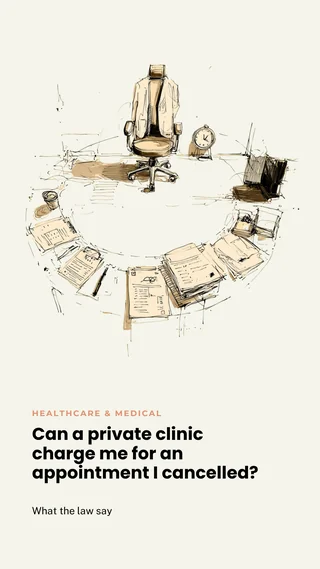
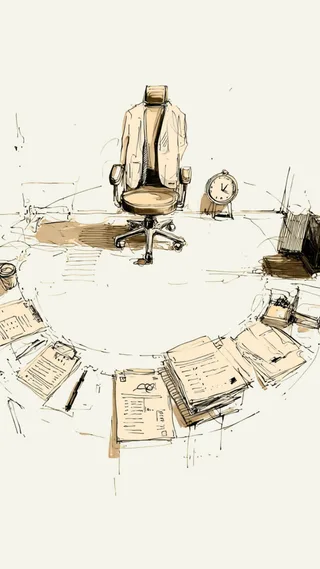
Healthcare & Medical questions: title-free card images, hero images, real card text
Same treatment as the Flights & Travel, Employment, Crypto & Fintech,
Food & Hospitality, Training & Education, and Finance & Banking batches,
now for Healthcare & Medical (5 articles), including the pillar page.

1. Replace the 5 small card images in images/questions/healthcare-medical/
   with new title-free versions — same filenames, same 1200x2133 dims —
   and regenerate the .webp/-320w.webp/-410w.webp variants from them.

2. Add a dedicated 1600x900 hero image to each of the 5 Healthcare &
   Medical question articles via the established .q-hero-image class
   (visible at all breakpoints, unlike the sitewide .hero-image which is
   display:none on mobile).

3. Fix /questions/ index cards (both "all" and "healthcare-medical" tab
   panels): title and category are now real HTML text
   (<h3 class="q-card-title">, <span class="q-card-category">) below
   each image, reusing the .q-card component from the earlier batches —
   no new CSS needed.

4. Fix the Healthcare & Medical pillar page (healthcare-medical.html):
   applied the same .q-card/.q-card-category/.q-card-title structure
   (wrapping the existing <picture>/webp markup) so title/category render
   as real text here too.

diff --git a/questions.html b/questions.html
@@ -531,20 +531,40 @@
           <span class="q-card-category">Finance &amp; Banking</span>
           <h3 class="q-card-title">Who pays if someone uses my card without permission?</h3>
         </a>
-        <a class="q-img-card" href="/questions/healthcare-medical/can-clinic-charge-me-appointment-i-cancelled">
-          <img src="/images/questions/healthcare-medical/can-clinic-charge-me-appointment-i-cancelled.png" alt="Can a private clinic charge me for an appointment I cancelled?" loading="lazy" width="1200" height="2133">
+        <a class="q-card" href="/questions/healthcare-medical/can-clinic-charge-me-appointment-i-cancelled">
+          <div class="q-img-card">
+            <img src="/images/questions/healthcare-medical/can-clinic-charge-me-appointment-i-cancelled.png" alt="Can a private clinic charge me for an appointment I cancelled?" loading="lazy" width="1200" height="2133">
+          </div>
+          <span class="q-card-category">Healthcare &amp; Medical</span>
+          <h3 class="q-card-title">Can a private clinic charge me for an appointment I cancelled?</h3>
         </a>
-        <a class="q-img-card" href="/questions/healthcare-medical/can-clinic-refuse-treatment-cannot-pay-immediately">
-          <img src="/images/questions/healthcare-medical/can-clinic-refuse-treatment-cannot-pay-immediately.png" alt="Can a clinic refuse treatment because I cannot pay immediately?" loading="lazy" width="1200" height="2133">
+        <a class="q-card" href="/questions/healthcare-medical/can-clinic-refuse-treatment-cannot-pay-immediately">
+          <div class="q-img-card">
+            <img src="/images/questions/healthcare-medical/can-clinic-refuse-treatment-cannot-pay-immediately.png" alt="Can a clinic refuse treatment because I cannot pay immediately?" loading="lazy" width="1200" height="2133">
+          </div>
+          <span class="q-card-category">Healthcare &amp; Medical</span>
+          <h3 class="q-card-title">Can a clinic refuse treatment because I cannot pay immediately?</h3>
         </a>
-        <a class="q-img-card" href="/questions/healthcare-medical/can-doctor-refuse-give-me-medical-records">
-          <img src="/images/questions/healthcare-medical/can-doctor-refuse-give-me-medical-records.png" alt="Can a doctor refuse to give me my medical records?" loading="lazy" width="1200" height="2133">
+        <a class="q-card" href="/questions/healthcare-medical/can-doctor-refuse-give-me-medical-records">
+          <div class="q-img-card">
+            <img src="/images/questions/healthcare-medical/can-doctor-refuse-give-me-medical-records.png" alt="Can a doctor refuse to give me my medical records?" loading="lazy" width="1200" height="2133">
+          </div>
+          <span class="q-card-category">Healthcare &amp; Medical</span>
+          <h3 class="q-card-title">Can a doctor refuse to give me my medical records?</h3>
         </a>
-        <a class="q-img-card" href="/questions/healthcare-medical/can-doctor-share-medical-information-employer">
-          <img src="/images/questions/healthcare-medical/can-doctor-share-medical-information-employer.png" alt="Can a doctor share my medical information with my employer?" loading="lazy" width="1200" height="2133">
+        <a class="q-card" href="/questions/healthcare-medical/can-doctor-share-medical-information-employer">
+          <div class="q-img-card">
+            <img src="/images/questions/healthcare-medical/can-doctor-share-medical-information-employer.png" alt="Can a doctor share my medical information with my employer?" loading="lazy" width="1200" height="2133">
+          </div>
+          <span class="q-card-category">Healthcare &amp; Medical</span>
+          <h3 class="q-card-title">Can a doctor share my medical information with my employer?</h3>
         </a>
-        <a class="q-img-card" href="/questions/healthcare-medical/can-hospital-charge-me-not-told-beforehand">
-          <img src="/images/questions/healthcare-medical/can-hospital-charge-me-not-told-beforehand.png" alt="Can a hospital charge me for something I was not told about beforehand?" loading="lazy" width="1200" height="2133">
+        <a class="q-card" href="/questions/healthcare-medical/can-hospital-charge-me-not-told-beforehand">
+          <div class="q-img-card">
+            <img src="/images/questions/healthcare-medical/can-hospital-charge-me-not-told-beforehand.png" alt="Can a hospital charge me for something I was not told about beforehand?" loading="lazy" width="1200" height="2133">
+          </div>
+          <span class="q-card-category">Healthcare &amp; Medical</span>
+          <h3 class="q-card-title">Can a hospital charge me for something I was not told about beforehand?</h3>
         </a>
         <a class="q-img-card" href="/questions/housing-rentals/can-my-landlord-enter-my-home-without-telling-me">
           <img src="/images/questions/housing-rentals/can-my-landlord-enter-my-home-without-telling-me.png" alt="Can my landlord enter my home without telling me?" loading="lazy" width="1200" height="2133">
@@ -821,20 +841,40 @@
 
     <div class="qh-tool-panel" data-toolpanel="healthcare-medical">
       <div class="q-card-grid">
-        <a class="q-img-card" href="/questions/healthcare-medical/can-clinic-charge-me-appointment-i-cancelled">
-          <img src="/images/questions/healthcare-medical/can-clinic-charge-me-appointment-i-cancelled.png" alt="Can a private clinic charge me for an appointment I cancelled?" loading="lazy" width="1200" height="2133">
+        <a class="q-card" href="/questions/healthcare-medical/can-clinic-charge-me-appointment-i-cancelled">
+          <div class="q-img-card">
+            <img src="/images/questions/healthcare-medical/can-clinic-charge-me-appointment-i-cancelled.png" alt="Can a private clinic charge me for an appointment I cancelled?" loading="lazy" width="1200" height="2133">
+          </div>
+          <span class="q-card-category">Healthcare &amp; Medical</span>
+          <h3 class="q-card-title">Can a private clinic charge me for an appointment I cancelled?</h3>
         </a>
-        <a class="q-img-card" href="/questions/healthcare-medical/can-clinic-refuse-treatment-cannot-pay-immediately">
-          <img src="/images/questions/healthcare-medical/can-clinic-refuse-treatment-cannot-pay-immediately.png" alt="Can a clinic refuse treatment because I cannot pay immediately?" loading="lazy" width="1200" height="2133">
+        <a class="q-card" href="/questions/healthcare-medical/can-clinic-refuse-treatment-cannot-pay-immediately">
+          <div class="q-img-card">
+            <img src="/images/questions/healthcare-medical/can-clinic-refuse-treatment-cannot-pay-immediately.png" alt="Can a clinic refuse treatment because I cannot pay immediately?" loading="lazy" width="1200" height="2133">
+          </div>
+          <span class="q-card-category">Healthcare &amp; Medical</span>
+          <h3 class="q-card-title">Can a clinic refuse treatment because I cannot pay immediately?</h3>
         </a>
-        <a class="q-img-card" href="/questions/healthcare-medical/can-doctor-refuse-give-me-medical-records">
-          <img src="/images/questions/healthcare-medical/can-doctor-refuse-give-me-medical-records.png" alt="Can a doctor refuse to give me my medical records?" loading="lazy" width="1200" height="2133">
+        <a class="q-card" href="/questions/healthcare-medical/can-doctor-refuse-give-me-medical-records">
+          <div class="q-img-card">
+            <img src="/images/questions/healthcare-medical/can-doctor-refuse-give-me-medical-records.png" alt="Can a doctor refuse to give me my medical records?" loading="lazy" width="1200" height="2133">
+          </div>
+          <span class="q-card-category">Healthcare &amp; Medical</span>
+          <h3 class="q-card-title">Can a doctor refuse to give me my medical records?</h3>
         </a>
-        <a class="q-img-card" href="/questions/healthcare-medical/can-doctor-share-medical-information-employer">
-          <img src="/images/questions/healthcare-medical/can-doctor-share-medical-information-employer.png" alt="Can a doctor share my medical information with my employer?" loading="lazy" width="1200" height="2133">
+        <a class="q-card" href="/questions/healthcare-medical/can-doctor-share-medical-information-employer">
+          <div class="q-img-card">
+            <img src="/images/questions/healthcare-medical/can-doctor-share-medical-information-employer.png" alt="Can a doctor share my medical information with my employer?" loading="lazy" width="1200" height="2133">
+          </div>
+          <span class="q-card-category">Healthcare &amp; Medical</span>
+          <h3 class="q-card-title">Can a doctor share my medical information with my employer?</h3>
         </a>
-        <a class="q-img-card" href="/questions/healthcare-medical/can-hospital-charge-me-not-told-beforehand">
-          <img src="/images/questions/healthcare-medical/can-hospital-charge-me-not-told-beforehand.png" alt="Can a hospital charge me for something I was not told about beforehand?" loading="lazy" width="1200" height="2133">
+        <a class="q-card" href="/questions/healthcare-medical/can-hospital-charge-me-not-told-beforehand">
+          <div class="q-img-card">
+            <img src="/images/questions/healthcare-medical/can-hospital-charge-me-not-told-beforehand.png" alt="Can a hospital charge me for something I was not told about beforehand?" loading="lazy" width="1200" height="2133">
+          </div>
+          <span class="q-card-category">Healthcare &amp; Medical</span>
+          <h3 class="q-card-title">Can a hospital charge me for something I was not told about beforehand?</h3>
         </a>
       </div>
     </div>

diff --git a/healthcare-medical.html b/healthcare-medical.html
@@ -532,28 +532,49 @@
        zero DOM nodes for them. Not a "Coming soon" message — nothing at all. -->
   <div id="chFutureSections"></div>
 
-  <!-- QUESTIONS — image-only cards, same .q-card-grid/.q-img-card component as
-       questions.html and the other pillar pages. Static (not JS-rendered like
-       Calculators/Cases/Investigations above) since this section, unlike those,
+  <!-- QUESTIONS — image + category + title cards, same .q-card-grid/.q-card
+       component as questions.html and the other pillar pages (title/category
+       are real HTML text, never baked into the image). Static (not JS-rendered
+       like Calculators/Cases/Investigations above) since this section, unlike those,
        isn't meant to silently disappear if empty. -->
   <section aria-labelledby="ch-questions-h2" style="margin-top: 56px;">
     <h2 id="ch-questions-h2" class="cl-hub-cat">Questions</h2>
     <p class="cl-hub-cat-sub">Real questions about medical bills, records access and provider disputes — answered with the exact US and UK law that applies. <a href="/questions">See all Questions →</a></p>
     <div class="q-card-grid">
-      <a class="q-img-card" href="/questions/healthcare-medical/can-clinic-charge-me-appointment-i-cancelled">
-        <picture><source srcset="/images/questions/healthcare-medical/can-clinic-charge-me-appointment-i-cancelled-320w.webp 320w, /images/questions/healthcare-medical/can-clinic-charge-me-appointment-i-cancelled-410w.webp 410w, /images/questions/healthcare-medical/can-clinic-charge-me-appointment-i-cancelled.webp 540w" sizes="(min-width: 960px) 265px, (min-width: 640px) 205px, 160px" type="image/webp"><img src="/images/questions/healthcare-medical/can-clinic-charge-me-appointment-i-cancelled.png" alt="Can a private clinic charge me for an appointment I cancelled?" loading="lazy" width="1200" height="2133"></picture>
+      <a class="q-card" href="/questions/healthcare-medical/can-clinic-charge-me-appointment-i-cancelled">
+        <div class="q-img-card">
+          <picture><source srcset="/images/questions/healthcare-medical/can-clinic-charge-me-appointment-i-cancelled-320w.webp 320w, /images/questions/healthcare-medical/can-clinic-charge-me-appointment-i-cancelled-410w.webp 410w, /images/questions/healthcare-medical/can-clinic-charge-me-appointment-i-cancelled.webp 540w" sizes="(min-width: 960px) 265px, (min-width: 640px) 205px, 160px" type="image/webp"><img src="/images/questions/healthcare-medical/can-clinic-charge-me-appointment-i-cancelled.png" alt="Can a private clinic charge me for an appointment I cancelled?" loading="lazy" width="1200" height="2133"></picture>
+        </div>
+        <span class="q-card-category">Healthcare &amp; Medical</span>
+        <h3 class="q-card-title">Can a private clinic charge me for an appointment I cancelled?</h3>
       </a>
-      <a class="q-img-card" href="/questions/healthcare-medical/can-clinic-refuse-treatment-cannot-pay-immediately">
-        <picture><source srcset="/images/questions/healthcare-medical/can-clinic-refuse-treatment-cannot-pay-immediately-320w.webp 320w, /images/questions/healthcare-medical/can-clinic-refuse-treatment-cannot-pay-immediately-410w.webp 410w, /images/questions/healthcare-medical/can-clinic-refuse-treatment-cannot-pay-immediately.webp 540w" sizes="(min-width: 960px) 265px, (min-width: 640px) 205px, 160px" type="image/webp"><img src="/images/questions/healthcare-medical/can-clinic-refuse-treatment-cannot-pay-immediately.png" alt="Can a clinic refuse treatment because I cannot pay immediately?" loading="lazy" width="1200" height="2133"></picture>
+      <a class="q-card" href="/questions/healthcare-medical/can-clinic-refuse-treatment-cannot-pay-immediately">
+        <div class="q-img-card">
+          <picture><source srcset="/images/questions/healthcare-medical/can-clinic-refuse-treatment-cannot-pay-immediately-320w.webp 320w, /images/questions/healthcare-medical/can-clinic-refuse-treatment-cannot-pay-immediately-410w.webp 410w, /images/questions/healthcare-medical/can-clinic-refuse-treatment-cannot-pay-immediately.webp 540w" sizes="(min-width: 960px) 265px, (min-width: 640px) 205px, 160px" type="image/webp"><img src="/images/questions/healthcare-medical/can-clinic-refuse-treatment-cannot-pay-immediately.png" alt="Can a clinic refuse treatment because I cannot pay immediately?" loading="lazy" width="1200" height="2133"></picture>
+        </div>
+        <span class="q-card-category">Healthcare &amp; Medical</span>
+        <h3 class="q-card-title">Can a clinic refuse treatment because I cannot pay immediately?</h3>
       </a>
-      <a class="q-img-card" href="/questions/healthcare-medical/can-doctor-refuse-give-me-medical-records">
-        <picture><source srcset="/images/questions/healthcare-medical/can-doctor-refuse-give-me-medical-records-320w.webp 320w, /images/questions/healthcare-medical/can-doctor-refuse-give-me-medical-records-410w.webp 410w, /images/questions/healthcare-medical/can-doctor-refuse-give-me-medical-records.webp 540w" sizes="(min-width: 960px) 265px, (min-width: 640px) 205px, 160px" type="image/webp"><img src="/images/questions/healthcare-medical/can-doctor-refuse-give-me-medical-records.png" alt="Can a doctor refuse to give me my medical records?" loading="lazy" width="1200" height="2133"></picture>
+      <a class="q-card" href="/questions/healthcare-medical/can-doctor-refuse-give-me-medical-records">
+        <div class="q-img-card">
+          <picture><source srcset="/images/questions/healthcare-medical/can-doctor-refuse-give-me-medical-records-320w.webp 320w, /images/questions/healthcare-medical/can-doctor-refuse-give-me-medical-records-410w.webp 410w, /images/questions/healthcare-medical/can-doctor-refuse-give-me-medical-records.webp 540w" sizes="(min-width: 960px) 265px, (min-width: 640px) 205px, 160px" type="image/webp"><img src="/images/questions/healthcare-medical/can-doctor-refuse-give-me-medical-records.png" alt="Can a doctor refuse to give me my medical records?" loading="lazy" width="1200" height="2133"></picture>
+        </div>
+        <span class="q-card-category">Healthcare &amp; Medical</span>
+        <h3 class="q-card-title">Can a doctor refuse to give me my medical records?</h3>
       </a>
-      <a class="q-img-card" href="/questions/healthcare-medical/can-doctor-share-medical-information-employer">
-        <picture><source srcset="/images/questions/healthcare-medical/can-doctor-share-medical-information-employer-320w.webp 320w, /images/questions/healthcare-medical/can-doctor-share-medical-information-employer-410w.webp 410w, /images/questions/healthcare-medical/can-doctor-share-medical-information-employer.webp 540w" sizes="(min-width: 960px) 265px, (min-width: 640px) 205px, 160px" type="image/webp"><img src="/images/questions/healthcare-medical/can-doctor-share-medical-information-employer.png" alt="Can a doctor share my medical information with my employer?" loading="lazy" width="1200" height="2133"></picture>
+      <a class="q-card" href="/questions/healthcare-medical/can-doctor-share-medical-information-employer">
+        <div class="q-img-card">
+          <picture><source srcset="/images/questions/healthcare-medical/can-doctor-share-medical-information-employer-320w.webp 320w, /images/questions/healthcare-medical/can-doctor-share-medical-information-employer-410w.webp 410w, /images/questions/healthcare-medical/can-doctor-share-medical-information-employer.webp 540w" sizes="(min-width: 960px) 265px, (min-width: 640px) 205px, 160px" type="image/webp"><img src="/images/questions/healthcare-medical/can-doctor-share-medical-information-employer.png" alt="Can a doctor share my medical information with my employer?" loading="lazy" width="1200" height="2133"></picture>
+        </div>
+        <span class="q-card-category">Healthcare &amp; Medical</span>
+        <h3 class="q-card-title">Can a doctor share my medical information with my employer?</h3>
       </a>
-      <a class="q-img-card" href="/questions/healthcare-medical/can-hospital-charge-me-not-told-beforehand">
-        <picture><source srcset="/images/questions/healthcare-medical/can-hospital-charge-me-not-told-beforehand-320w.webp 320w, /images/questions/healthcare-medical/can-hospital-charge-me-not-told-beforehand-410w.webp 410w, /images/questions/healthcare-medical/can-hospital-charge-me-not-told-beforehand.webp 540w" sizes="(min-width: 960px) 265px, (min-width: 640px) 205px, 160px" type="image/webp"><img src="/images/questions/healthcare-medical/can-hospital-charge-me-not-told-beforehand.png" alt="Can a hospital charge me for something I was not told about beforehand?" loading="lazy" width="1200" height="2133"></picture>
+      <a class="q-card" href="/questions/healthcare-medical/can-hospital-charge-me-not-told-beforehand">
+        <div class="q-img-card">
+          <picture><source srcset="/images/questions/healthcare-medical/can-hospital-charge-me-not-told-beforehand-320w.webp 320w, /images/questions/healthcare-medical/can-hospital-charge-me-not-told-beforehand-410w.webp 410w, /images/questions/healthcare-medical/can-hospital-charge-me-not-told-beforehand.webp 540w" sizes="(min-width: 960px) 265px, (min-width: 640px) 205px, 160px" type="image/webp"><img src="/images/questions/healthcare-medical/can-hospital-charge-me-not-told-beforehand.png" alt="Can a hospital charge me for something I was not told about beforehand?" loading="lazy" width="1200" height="2133"></picture>
+        </div>
+        <span class="q-card-category">Healthcare &amp; Medical</span>
+        <h3 class="q-card-title">Can a hospital charge me for something I was not told about beforehand?</h3>
       </a>
     </div>
   </section>

diff --git a/questions/healthcare-medical/can-hospital-charge-me-not-told-beforehand.html b/questions/healthcare-medical/can-hospital-charge-me-not-told-beforehand.html
@@ -117,6 +117,8 @@
   .wrap { max-width: 720px; margin: 0 auto; padding: 0 24px; }
   .q-header { padding: 56px 0 28px; }
   .q-category { display: inline-block; font-family: var(--font-sans); font-size: 13px; font-weight: 700; letter-spacing: 1.2px; text-transform: uppercase; color: var(--accent-terra); margin-bottom: 18px; }
+  /* Visible at ALL breakpoints, unlike the sitewide .hero-image class (display:none on mobile). */
+  .q-hero-image { display: block; width: 100%; max-width: 100%; height: auto; border-radius: 12px; margin: 0 0 24px; }
   .q-header h1 { font-family: var(--font-serif); font-size: 36px; font-weight: 800; line-height: 1.25; margin-bottom: 16px; }
   .q-dek { font-size: 18px; color: var(--text-secondary); max-width: 620px; }
   .q-meta { display: flex; gap: 18px; margin-top: 20px; font-size: 13px; color: var(--text-secondary); }
@@ -342,6 +344,7 @@
 
   <header class="q-header">
     <span class="q-category">Healthcare &amp; Medical · US &amp; UK</span>
+    <img class="q-hero-image" src="/images/questions/healthcare-medical/can-hospital-charge-me-not-told-beforehand-hero.png" width="1600" height="900" alt="Can a hospital charge me for something I was not told about beforehand?" loading="eager" fetchpriority="high">
     <h1>Can a hospital charge me for something I was not told about beforehand?</h1>
     <p class="q-dek">Surprise medical bills used to be treated as an unavoidable part of getting care. Recent law in both countries makes that a lot less true.</p>
     <div class="q-meta">

diff --git a/questions/healthcare-medical/can-clinic-refuse-treatment-cannot-pay-immediately.html b/questions/healthcare-medical/can-clinic-refuse-treatment-cannot-pay-immediately.html
@@ -117,6 +117,8 @@
   .wrap { max-width: 720px; margin: 0 auto; padding: 0 24px; }
   .q-header { padding: 56px 0 28px; }
   .q-category { display: inline-block; font-family: var(--font-sans); font-size: 13px; font-weight: 700; letter-spacing: 1.2px; text-transform: uppercase; color: var(--accent-terra); margin-bottom: 18px; }
+  /* Visible at ALL breakpoints, unlike the sitewide .hero-image class (display:none on mobile). */
+  .q-hero-image { display: block; width: 100%; max-width: 100%; height: auto; border-radius: 12px; margin: 0 0 24px; }
   .q-header h1 { font-family: var(--font-serif); font-size: 36px; font-weight: 800; line-height: 1.25; margin-bottom: 16px; }
   .q-dek { font-size: 18px; color: var(--text-secondary); max-width: 620px; }
   .q-meta { display: flex; gap: 18px; margin-top: 20px; font-size: 13px; color: var(--text-secondary); }
@@ -342,6 +344,7 @@
 
   <header class="q-header">
     <span class="q-category">Healthcare &amp; Medical · US &amp; UK</span>
+    <img class="q-hero-image" src="/images/questions/healthcare-medical/can-clinic-refuse-treatment-cannot-pay-immediately-hero.png" width="1600" height="900" alt="Can a clinic refuse treatment because I cannot pay immediately?" loading="eager" fetchpriority="high">
     <h1>Can a clinic refuse treatment because I cannot pay immediately?</h1>
     <p class="q-dek">The word doing all the legal work here is "emergency" — it draws a hard line between what a provider must do and what it can choose to do.</p>
     <div class="q-meta">

diff --git a/questions/healthcare-medical/can-clinic-charge-me-appointment-i-cancelled.html b/questions/healthcare-medical/can-clinic-charge-me-appointment-i-cancelled.html
@@ -117,6 +117,8 @@
   .wrap { max-width: 720px; margin: 0 auto; padding: 0 24px; }
   .q-header { padding: 56px 0 28px; }
   .q-category { display: inline-block; font-family: var(--font-sans); font-size: 13px; font-weight: 700; letter-spacing: 1.2px; text-transform: uppercase; color: var(--accent-terra); margin-bottom: 18px; }
+  /* Visible at ALL breakpoints, unlike the sitewide .hero-image class (display:none on mobile). */
+  .q-hero-image { display: block; width: 100%; max-width: 100%; height: auto; border-radius: 12px; margin: 0 0 24px; }
   .q-header h1 { font-family: var(--font-serif); font-size: 36px; font-weight: 800; line-height: 1.25; margin-bottom: 16px; }
   .q-dek { font-size: 18px; color: var(--text-secondary); max-width: 620px; }
   .q-meta { display: flex; gap: 18px; margin-top: 20px; font-size: 13px; color: var(--text-secondary); }
@@ -342,6 +344,7 @@
 
   <header class="q-header">
     <span class="q-category">Healthcare &amp; Medical · US &amp; UK</span>
+    <img class="q-hero-image" src="/images/questions/healthcare-medical/can-clinic-charge-me-appointment-i-cancelled-hero.png" width="1600" height="900" alt="Can a private clinic charge me for an appointment I cancelled?" loading="eager" fetchpriority="high">
     <h1>Can a private clinic charge me for an appointment I cancelled?</h1>
     <p class="q-dek">The deciding factor isn't fairness in the abstract — it's whether you actually agreed to the fee before you booked.</p>
     <div class="q-meta">

diff --git a/questions/healthcare-medical/can-doctor-refuse-give-me-medical-records.html b/questions/healthcare-medical/can-doctor-refuse-give-me-medical-records.html
@@ -117,6 +117,8 @@
   .wrap { max-width: 720px; margin: 0 auto; padding: 0 24px; }
   .q-header { padding: 56px 0 28px; }
   .q-category { display: inline-block; font-family: var(--font-sans); font-size: 13px; font-weight: 700; letter-spacing: 1.2px; text-transform: uppercase; color: var(--accent-terra); margin-bottom: 18px; }
+  /* Visible at ALL breakpoints, unlike the sitewide .hero-image class (display:none on mobile). */
+  .q-hero-image { display: block; width: 100%; max-width: 100%; height: auto; border-radius: 12px; margin: 0 0 24px; }
   .q-header h1 { font-family: var(--font-serif); font-size: 36px; font-weight: 800; line-height: 1.25; margin-bottom: 16px; }
   .q-dek { font-size: 18px; color: var(--text-secondary); max-width: 620px; }
   .q-meta { display: flex; gap: 18px; margin-top: 20px; font-size: 13px; color: var(--text-secondary); }
@@ -342,6 +344,7 @@
 
   <header class="q-header">
     <span class="q-category">Healthcare &amp; Medical · US &amp; UK</span>
+    <img class="q-hero-image" src="/images/questions/healthcare-medical/can-doctor-refuse-give-me-medical-records-hero.png" width="1600" height="900" alt="Can a doctor refuse to give me my medical records?" loading="eager" fetchpriority="high">
     <h1>Can a doctor refuse to give me my medical records?</h1>
     <p class="q-dek">Your medical file belongs to you in every meaningful legal sense — providers just hold onto the physical or digital copy.</p>
     <div class="q-meta">

diff --git a/questions/healthcare-medical/can-doctor-share-medical-information-employer.html b/questions/healthcare-medical/can-doctor-share-medical-information-employer.html
@@ -117,6 +117,8 @@
   .wrap { max-width: 720px; margin: 0 auto; padding: 0 24px; }
   .q-header { padding: 56px 0 28px; }
   .q-category { display: inline-block; font-family: var(--font-sans); font-size: 13px; font-weight: 700; letter-spacing: 1.2px; text-transform: uppercase; color: var(--accent-terra); margin-bottom: 18px; }
+  /* Visible at ALL breakpoints, unlike the sitewide .hero-image class (display:none on mobile). */
+  .q-hero-image { display: block; width: 100%; max-width: 100%; height: auto; border-radius: 12px; margin: 0 0 24px; }
   .q-header h1 { font-family: var(--font-serif); font-size: 36px; font-weight: 800; line-height: 1.25; margin-bottom: 16px; }
   .q-dek { font-size: 18px; color: var(--text-secondary); max-width: 620px; }
   .q-meta { display: flex; gap: 18px; margin-top: 20px; font-size: 13px; color: var(--text-secondary); }
@@ -342,6 +344,7 @@
 
   <header class="q-header">
     <span class="q-category">Healthcare &amp; Medical · US &amp; UK</span>
+    <img class="q-hero-image" src="/images/questions/healthcare-medical/can-doctor-share-medical-information-employer-hero.png" width="1600" height="900" alt="Can a doctor share my medical information with my employer?" loading="eager" fetchpriority="high">
     <h1>Can a doctor share my medical information with my employer?</h1>
     <p class="q-dek">Your employer can ask. Your doctor still needs your yes before saying anything back.</p>
     <div class="q-meta">
